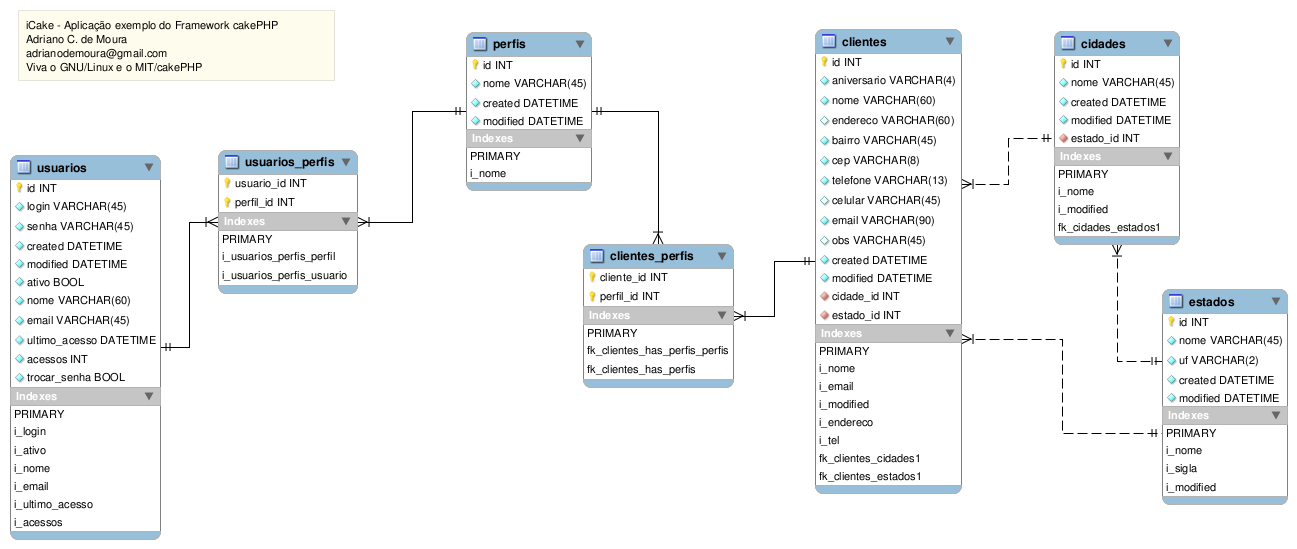
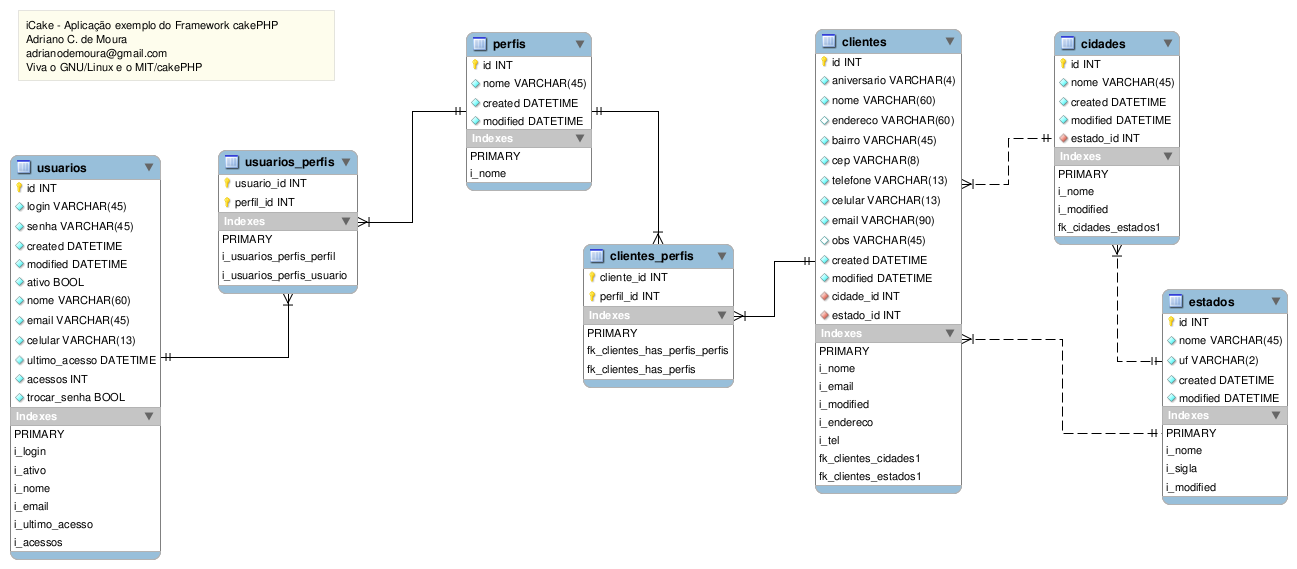
Correção no layout de cadastros do plugin jcake, máscara de telefone não funciona

diff --git a/webroot/css/clientes.css b/webroot/css/clientes.css
@@ -1,0 +1,21 @@
+#conteudo input[type="text"]
+{
+	text-transform: uppercase;
+}
+
+#conteudo #ClienteEmail
+{
+	text-transform: lowercase;
+}
+
+#conteudo #listar
+{
+	width: 96%;
+}
+
+#conteudo #ClienteTelefone,
+#conteudo #ClienteCelular
+{
+	width: 120px;
+	text-align: center;
+}

diff --git a/plugins/jcake/webroot/css/jcake_editar.css b/plugins/jcake/webroot/css/jcake_editar.css
@@ -124,3 +124,11 @@ br
 	float: left;
 	margin-right: 5px;
 }
+
+#editar input:hover {
+    background: #dddddd;
+}
+
+#editar input:focus {
+    background: #C9C9C9;
+}

diff --git a/plugins/jcake/webroot/css/jcake_layout.css b/plugins/jcake/webroot/css/jcake_layout.css
@@ -2,6 +2,7 @@ body
 {
 	margin: 0px;
 	padding: 0px;
+	font-family: verdana;
 }
 
 #logocake

diff --git a/webroot/css/icake.css b/webroot/css/icake.css
@@ -2,6 +2,7 @@ body
 {
 	margin: 0px;
 	padding: 0px;
+	font-family: verdana;
 }
 
 a

diff --git a/controllers/clientes_controller.php b/controllers/clientes_controller.php
@@ -68,12 +68,9 @@ class ClientesController extends AppController {
 			{
 				if (isset($this->data['Cliente'][$_campo]))
 				{
-					$this->data['Cliente'][$_campo]	= ereg_replace('-','',$this->data['Cliente'][$_campo]);
-					$this->data['Cliente'][$_campo] = str_replace('(','',$this->data['Cliente'][$_campo]);
-					$this->data['Cliente'][$_campo] = str_replace(')','',$this->data['Cliente'][$_campo]);
+					$this->data['Cliente'][$_campo]	= ereg_replace('- ','',$this->data['Cliente'][$_campo]);
 				}
 			}
-			pr($this->data['Cliente']);
 		}
 	}
 
@@ -89,7 +86,7 @@ class ClientesController extends AppController {
 		$onReadView 		= array();
 		$edicaoCampos		= array('Cliente.nome','Cliente.aniversario','#','Cliente.endereco','#','Cliente.bairro','Cliente.cep','#','Cliente.estado_id','Cliente.cidade_id','@','Cliente.telefone','Cliente.celular','@','Cliente.email','@','Perfil','@','Cliente.obs','@','Cliente.modified','Cliente.created');
 		$botoesEdicao		= array();
-		$listaCampos 		= array('Cliente.nome','Cliente.bairro','Cidade.nome','Cliente.telefone','Cliente.modified','Cliente.created');
+		$listaCampos 		= array('Cliente.nome','Cliente.bairro','Cidade.nome','Cliente.telefone','Cliente.celular','Cliente.modified','Cliente.created');
 		$listaFerramentas	= array();
 		$escreverTitBt 		= false;
 
@@ -138,11 +135,13 @@ class ClientesController extends AppController {
 		
 		$campos['Cliente']['telefone']['input']['label']['text']	= 'Telefone';
 		$campos['Cliente']['telefone']['th']['width']				= '120px';
-		$campos['Cliente']['telefone']['mascara']					= '(99)9999-9999';
+		$campos['Cliente']['telefone']['mascara']					= ' 99 9999-9999';
+		$campos['Cliente']['telefone']['td']['align']				= 'center';
 
 		$campos['Cliente']['celular']['input']['label']['text']		= 'Celular';
 		$campos['Cliente']['celular']['th']['width']				= '120px';
-		$campos['Cliente']['celular']['mascara']					= '(99)9999-9999';
+		$campos['Cliente']['celular']['mascara']					= ' 99 9999-9999';
+		$campos['Cliente']['celular']['td']['align']				= 'center';
 
 		$campos['Cliente']['cep']['input']['label']['text']			= 'Cep';
 		$campos['Cliente']['cep']['input']['style']					= 'width: 90px; text-align: center;';

diff --git a/controllers/usuarios_controller.php b/controllers/usuarios_controller.php
@@ -52,6 +52,14 @@ class UsuariosController extends AppController {
 			$this->data['Usuario']['nome']	= mb_strtoupper($this->data['Usuario']['nome']);
 			$this->data['Usuario']['email'] = mb_strtolower($this->data['Usuario']['email']);
 			$this->data['Usuario']['login'] = mb_strtolower($this->data['Usuario']['login']);
+			$campos = array('celular');
+			foreach($campos as $_campo)
+			{
+				if (isset($this->data['Usuario'][$_campo]))
+				{
+					$this->data['Usuario'][$_campo]	= ereg_replace('-','',$this->data['Usuario'][$_campo]);
+				}
+			}
 		}
 		parent::beforeFilter();
 	}
@@ -66,7 +74,7 @@ class UsuariosController extends AppController {
 		$campos							= array();
 		$onReadView 					= array();
 		$listaCampos 					= array('Usuario.login','Usuario.ativo','Usuario.nome','Usuario.modified','Usuario.created');
-		$edicaoCampos					= array('Usuario.login','Usuario.ativo','@','Usuario.nome','#','Usuario.email','@','Perfil','@','Usuario.modified','Usuario.created');
+		$edicaoCampos					= array('Usuario.login','Usuario.ativo','@','Usuario.nome','#','Usuario.email','#','Usuario.celular','@','Perfil','@','Usuario.modified','Usuario.created');
 		$listaFerramentas				= array();
 		$botoesEdicao					= array();
 
@@ -87,6 +95,10 @@ class UsuariosController extends AppController {
 		$campos['Usuario']['nome']['th']['width']				= '400px';
 
 		$campos['Usuario']['email']['input']['size']			= '60px';
+
+		$campos['Usuario']['celular']['input']['label']['text']	= 'Celular';
+		$campos['Usuario']['celular']['th']['width']			= '120px';
+		$campos['Usuario']['celular']['mascara']				= ' 99 9999-9999';
 
 		$campos['Usuario']['ativo']['input']['label']['text'] 	= 'Ativo';
 		$campos['Usuario']['ativo']['th']['width'] 				= '100px';

diff --git a/plugins/jcake/views/helpers/visao.php b/plugins/jcake/views/helpers/visao.php
@@ -95,6 +95,15 @@ class VisaoHelper extends Helper {
 	 */
 	public function setHeaderCssJs($texto=null,$separador='/')
 	{
+		if ($this->action=='editar' || $this->action=='novo')
+		{
+			$this->Html->css('/jcake/css/jcake_editar.css', null, array('inline' => false));
+		}
+		if ($this->action=='listar')
+		{
+			$this->Html->css('/jcake/css/jcake_listar.css', null, array('inline' => false));
+		}
+
 		if (!empty($texto))
 		{
 			$arrTexto = explode($separador,$texto);
@@ -436,7 +445,7 @@ class VisaoHelper extends Helper {
 				break;
 			case 'telefone':
 			case '(99)9999-9999':
-				$mascarado = '('.substr($valor,0,2).')'.substr($valor,2,4).'-'.substr($valor,6,4);
+				//$mascarado = '('.substr($valor,0,2).')'.substr($valor,2,4).'-'.substr($valor,6,4);
 				break;
 		}
 		if (count($opcoes)>0)
